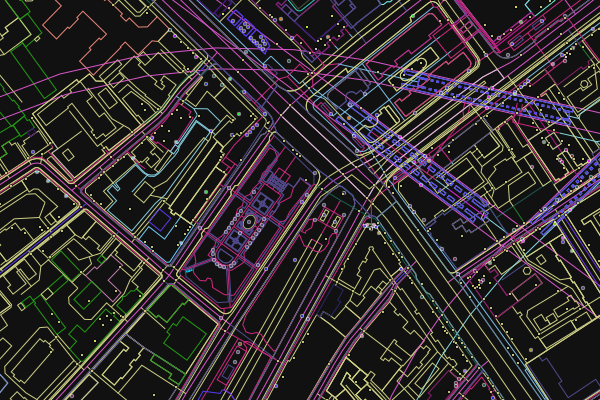
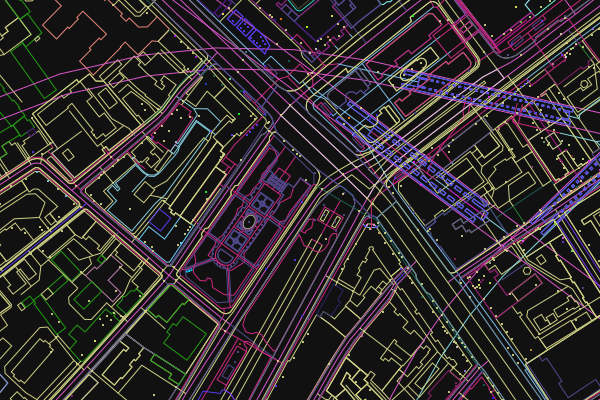
Fix special mode node outline.

diff --git a/roentgen/point.py b/roentgen/point.py
@@ -140,7 +140,8 @@ class Point(Tagged):
     def __init__(
             self, icon_set: IconSet, tags: Dict[str, str], point: np.array,
             coordinates: np.array, priority: float = 0,
-            is_for_node: bool = True):
+            is_for_node: bool = True, draw_outline: bool = True
+        ):
         super().__init__()
 
         assert point is not None
@@ -152,6 +153,7 @@ class Point(Tagged):
         self.priority: float = priority
         self.layer: float = 0
         self.is_for_node: bool = is_for_node
+        self.draw_outline: bool = draw_outline
 
         self.y = 0
 
@@ -210,11 +212,12 @@ class Point(Tagged):
 
         # Draw outlines.
 
-        for icon in icons:  # type: Icon
-            bright: bool = is_bright(fill)
-            color: Color = Color("black") if bright else Color("white")
-            opacity: float = 0.7 if bright else 0.5
-            icon.draw(svg, position, color, opacity=opacity, outline=True)
+        if self.draw_outline:
+            for icon in icons:  # type: Icon
+                bright: bool = is_bright(fill)
+                color: Color = Color("black") if bright else Color("white")
+                opacity: float = 0.7 if bright else 0.5
+                icon.draw(svg, position, color, opacity=opacity, outline=True)
 
         # Draw icons.
 

diff --git a/roentgen/constructor.py b/roentgen/constructor.py
@@ -429,6 +429,7 @@ class Constructor:
 
             priority: int
             icon_set: IconSet
+            draw_outline: bool = True
 
             if self.mode in ["time", "user-coloring"]:
                 if not tags:
@@ -440,13 +441,16 @@ class Constructor:
                 dot, _ = self.icon_extractor.get_path(DEFAULT_SMALL_SHAPE_ID)
                 icon_set = IconSet([dot], [], color, set(), True)
                 priority = 0
+                draw_outline = False
             else:
                 icon_set, priority = self.scheme.get_icon(
                     self.icon_extractor, tags
                 )
 
             self.nodes.append(Point(
-                icon_set, tags, flung, node.coordinates, priority=priority))
+                icon_set, tags, flung, node.coordinates, priority=priority,
+                draw_outline=draw_outline
+            ))
 
             missing_tags.update(
                 f"{key}: {tags[key]}" for key in tags
